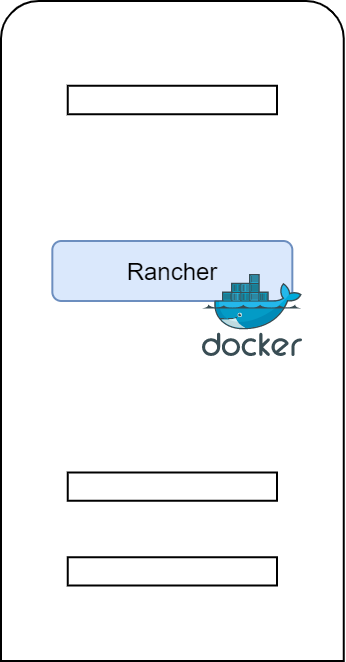
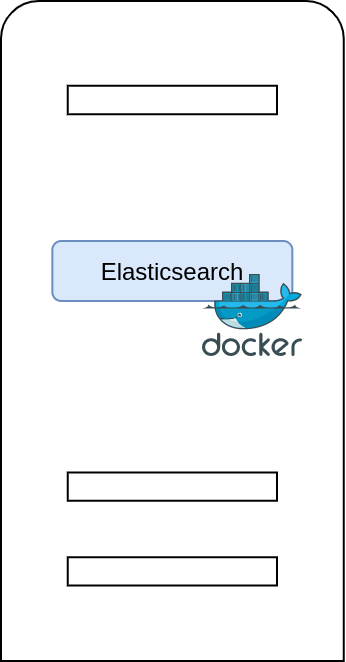
added new what-is-k8s post

Changed region(s): [[0.289, 0.3927, 0.7225, 0.423]]

diff --git a/_includes/presentations/2020-11-06-what-is-kubernetes.md b/_includes/presentations/2020-11-06-what-is-kubernetes.md
@@ -1,0 +1,149 @@
+
+## What is Kubernetes?
++ What are containers?
++ What is Docker?
++ Where are my apps?
++ Why orchestrate?
+
+{% if include.pres %}Note: {% endif %}
+
+---
+
+## Applications
++ Hosted on a server
++ Installed on the disk
++ Run as processes
++ Provide a service
++ Quality of service
+
+{% if include.pres %}Note: {% endif %}
+
+---
+
+A single application running on a host
+{% include svg.html style="width: 25%; min-width: 150px" svg="/assets/svg/kubernetes/k8s-app-singlehost.svg" png="/assets/svg/kubernetes/k8s-app-singlehost.png" %}
+
+---
+
+## Containers
++ Standardised
++ Isolated
++ Easily distributed
++ Improved security
+
+{% if include.pres %}Note: {% endif %}
+Containers ensure standardisation for distribution and isolation for execution.
+
+---
+
+A single container running on a host
+{% include svg.html style="width: 25%; min-width: 150px" svg="/assets/svg/kubernetes/k8s-docker-singlehost.svg" png="/assets/svg/kubernetes/k8s-docker-singlehost.png" %}
+
+---
+
+## Docker
++ Docker is a container platform
++ Standard for containers
++ Not a hypervisor
++ Docker Hub is a library
+
+{% if include.pres %}Note: {% endif %}
+Docker is not a hypervisor, but it behaves a little bit like one.
+It allows different workloads to be run side-by-side without interfering with each other.
+Docker can be installed for a [variety of platforms](https://docs.docker.com/get-docker/).
+In production, or Production-like environments, that's typically as a package for Linux.
+
+---
+
+## Multiple containers
++ All isolated from one another
++ Managed interactions
++ Workload control
++ Security
+
+---
+
+A single host running multiple containers side-by-side
+{% include svg.html style="width: 25%; min-width: 150px" svg="/assets/svg/kubernetes/k8s-docker-singlehost-multicontainer.svg" png="/assets/svg/kubernetes/k8s-docker-singlehost-multicontainer.png" %}
+
+---
+
+## Things go wrong
++ Hosts crash
++ Goal is quality service delivery:
+    + Reliability
+    + Performance
+    + High-availability
++ Redundant copies
+
+---
+
+Multiple Docker hosts behind a load balancer
+{% include svg.html svg="/assets/svg/kubernetes/k8s-docker-multi-host.svg" png="/assets/svg/kubernetes/k8s-docker-multi-host.png" %}
+
+---
+
+## More to manage
++ Config management
+    + Networking
++ Secret distribution
++ Simplicity of load balancer
++ Identical nodes
+    + Non-adaptive
++ Need help orchestrating
+
+---
+
+Kubernetes
+{% include svg.html style="width: 25%; min-width: 150px" svg="/assets/svg/kubernetes/k8s-icon.svg" png="/assets/svg/kubernetes/k8s-icon.png" %}
+
+---
+
+## Kubernetes
++ Container orchestration
++ Networking
++ Services
+    + Load balancing
+    + High availability
++ Ingress
++ Secret management
+
+---
+
+A Kubernetes pod wrapping a single container
+{% include svg.html style="width: 40%;" svg="/assets/svg/kubernetes/k8s-pod-elasticsearch.svg" png="/assets/svg/kubernetes/k8s-pod-elasticsearch.png" %}
+
+---
+
+## Kubernetes entities
++ Pod
+    + Wraps a container
++ Deployment
+    + Defines pod and how it's deployed to cluster
+    + Multiple instances of a pod
+    + Multiple different pods
+
+---
+
+Multiple Kubernetes pods deployed across multiple hosts
+{% include svg.html svg="/assets/svg/kubernetes/k8s-distributed-pods-multi-host.svg" png="/assets/svg/kubernetes/k8s-distributed-pods-multi-host.png" %}
+
+---
+
+## Kubernetes entities
++ Services
+    + Routed across multiple pods
+    + Hide underlying implementation
+
+---
+
+Services broker requests to an orchestrated set of pods
+{% include svg.html svg="/assets/svg/kubernetes/k8s-service-across-pods-by-host.svg" png="/assets/svg/kubernetes/k8s-service-across-pods-by-host.png" %}
+
+---
+
+## Help
+
+{% if include.pres %}Note: {% endif %}
+If you'd like help organising and preparing your digital strategy, working with your team to foster a data-driven culture, or just hands-on-keyboard training in infrastructure-as-code, please [get in touch](/contact).
+

diff --git a/_posts/blog/2020-11-06-what-is-kubernetes.md b/_posts/blog/2020-11-06-what-is-kubernetes.md
@@ -1,0 +1,15 @@
+---
+layout: single
+title: What is Kubernetes?
+description: From the ground up, or really the application down, we look at the transformative effect that Kubernetes is having and the container technology that underpins it
+permalink: /tech/2020/what-is-kubernetes/
+tags: tech devops front
+toc: true
+header:
+    overlay_image: /assets/images/container_blocks_23630_1920x.jpg
+    small_image: /assets/images/container_blocks_23630_640x.jpg
+---
+
+{% include presentations/2020-11-06-what-is-kubernetes.md %}
+
+{% include reveal_link.html %}

diff --git a/_posts/blog/2020-11-06-what-is-kubernetes_presentation.md b/_posts/blog/2020-11-06-what-is-kubernetes_presentation.md
@@ -1,0 +1,12 @@
+---
+layout: reveal
+title: What is Kubernetes?
+description: From the ground up, or really the application down, we look at the transformative effect that Kubernetes is having and the container technology that underpins it
+permalink: /tech/2020/what-is-kubernetes/reveal/
+---
+
+{% include reveal_slide-start.html %}
+
+{% include presentations/2020-11-06-what-is-kubernetes.md pres=true %}
+
+{% include reveal_slide-finish.html %}

diff --git a/_includes/presentations/2020-10-06-building-blocks-for-hosting-containers.md b/_includes/presentations/2020-10-06-building-blocks-for-hosting-containers.md
@@ -60,9 +60,7 @@ A single container running on a Docker host
 + Simple to start up `docker-compose up`
 + Simple to stop them `docker-compose down`
 
----
-
-## Docker compose
+{% if include.pres!=true %}
 ```
 version: "3"
 services:
@@ -85,6 +83,7 @@ services:
         depends_on:
             - elasticsearch
 ```
+{% endif %}
 
 ---
 
